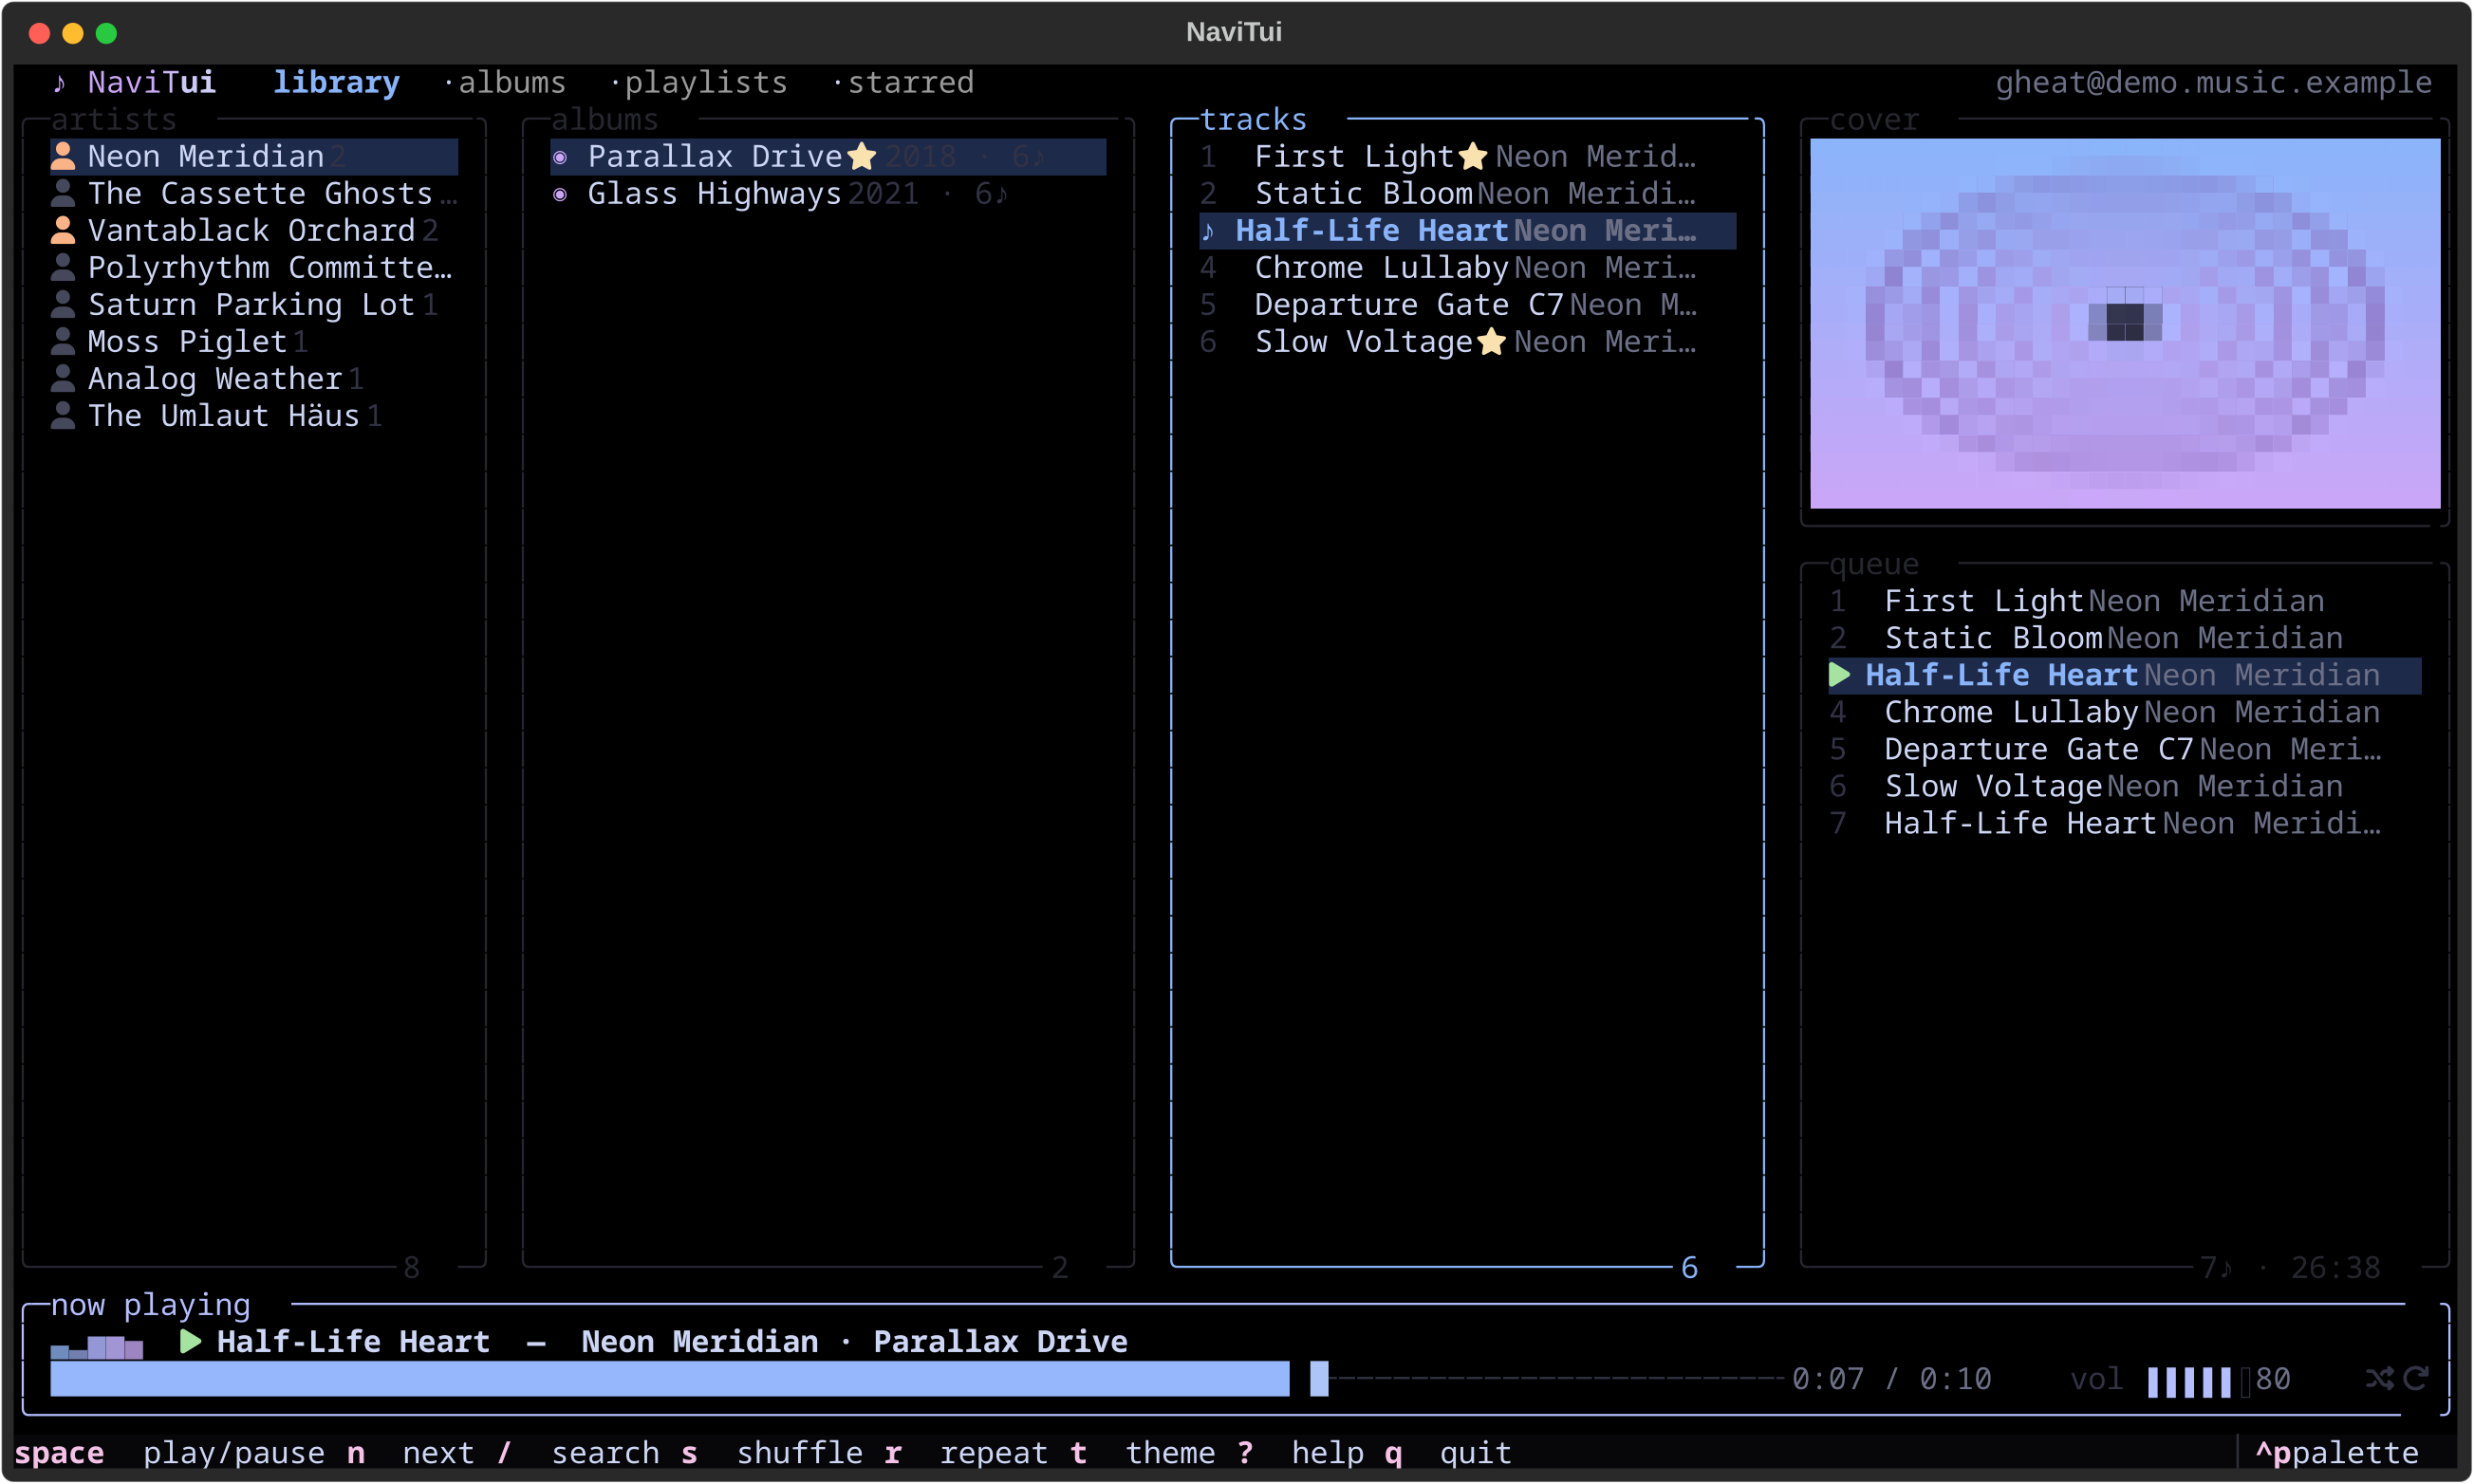
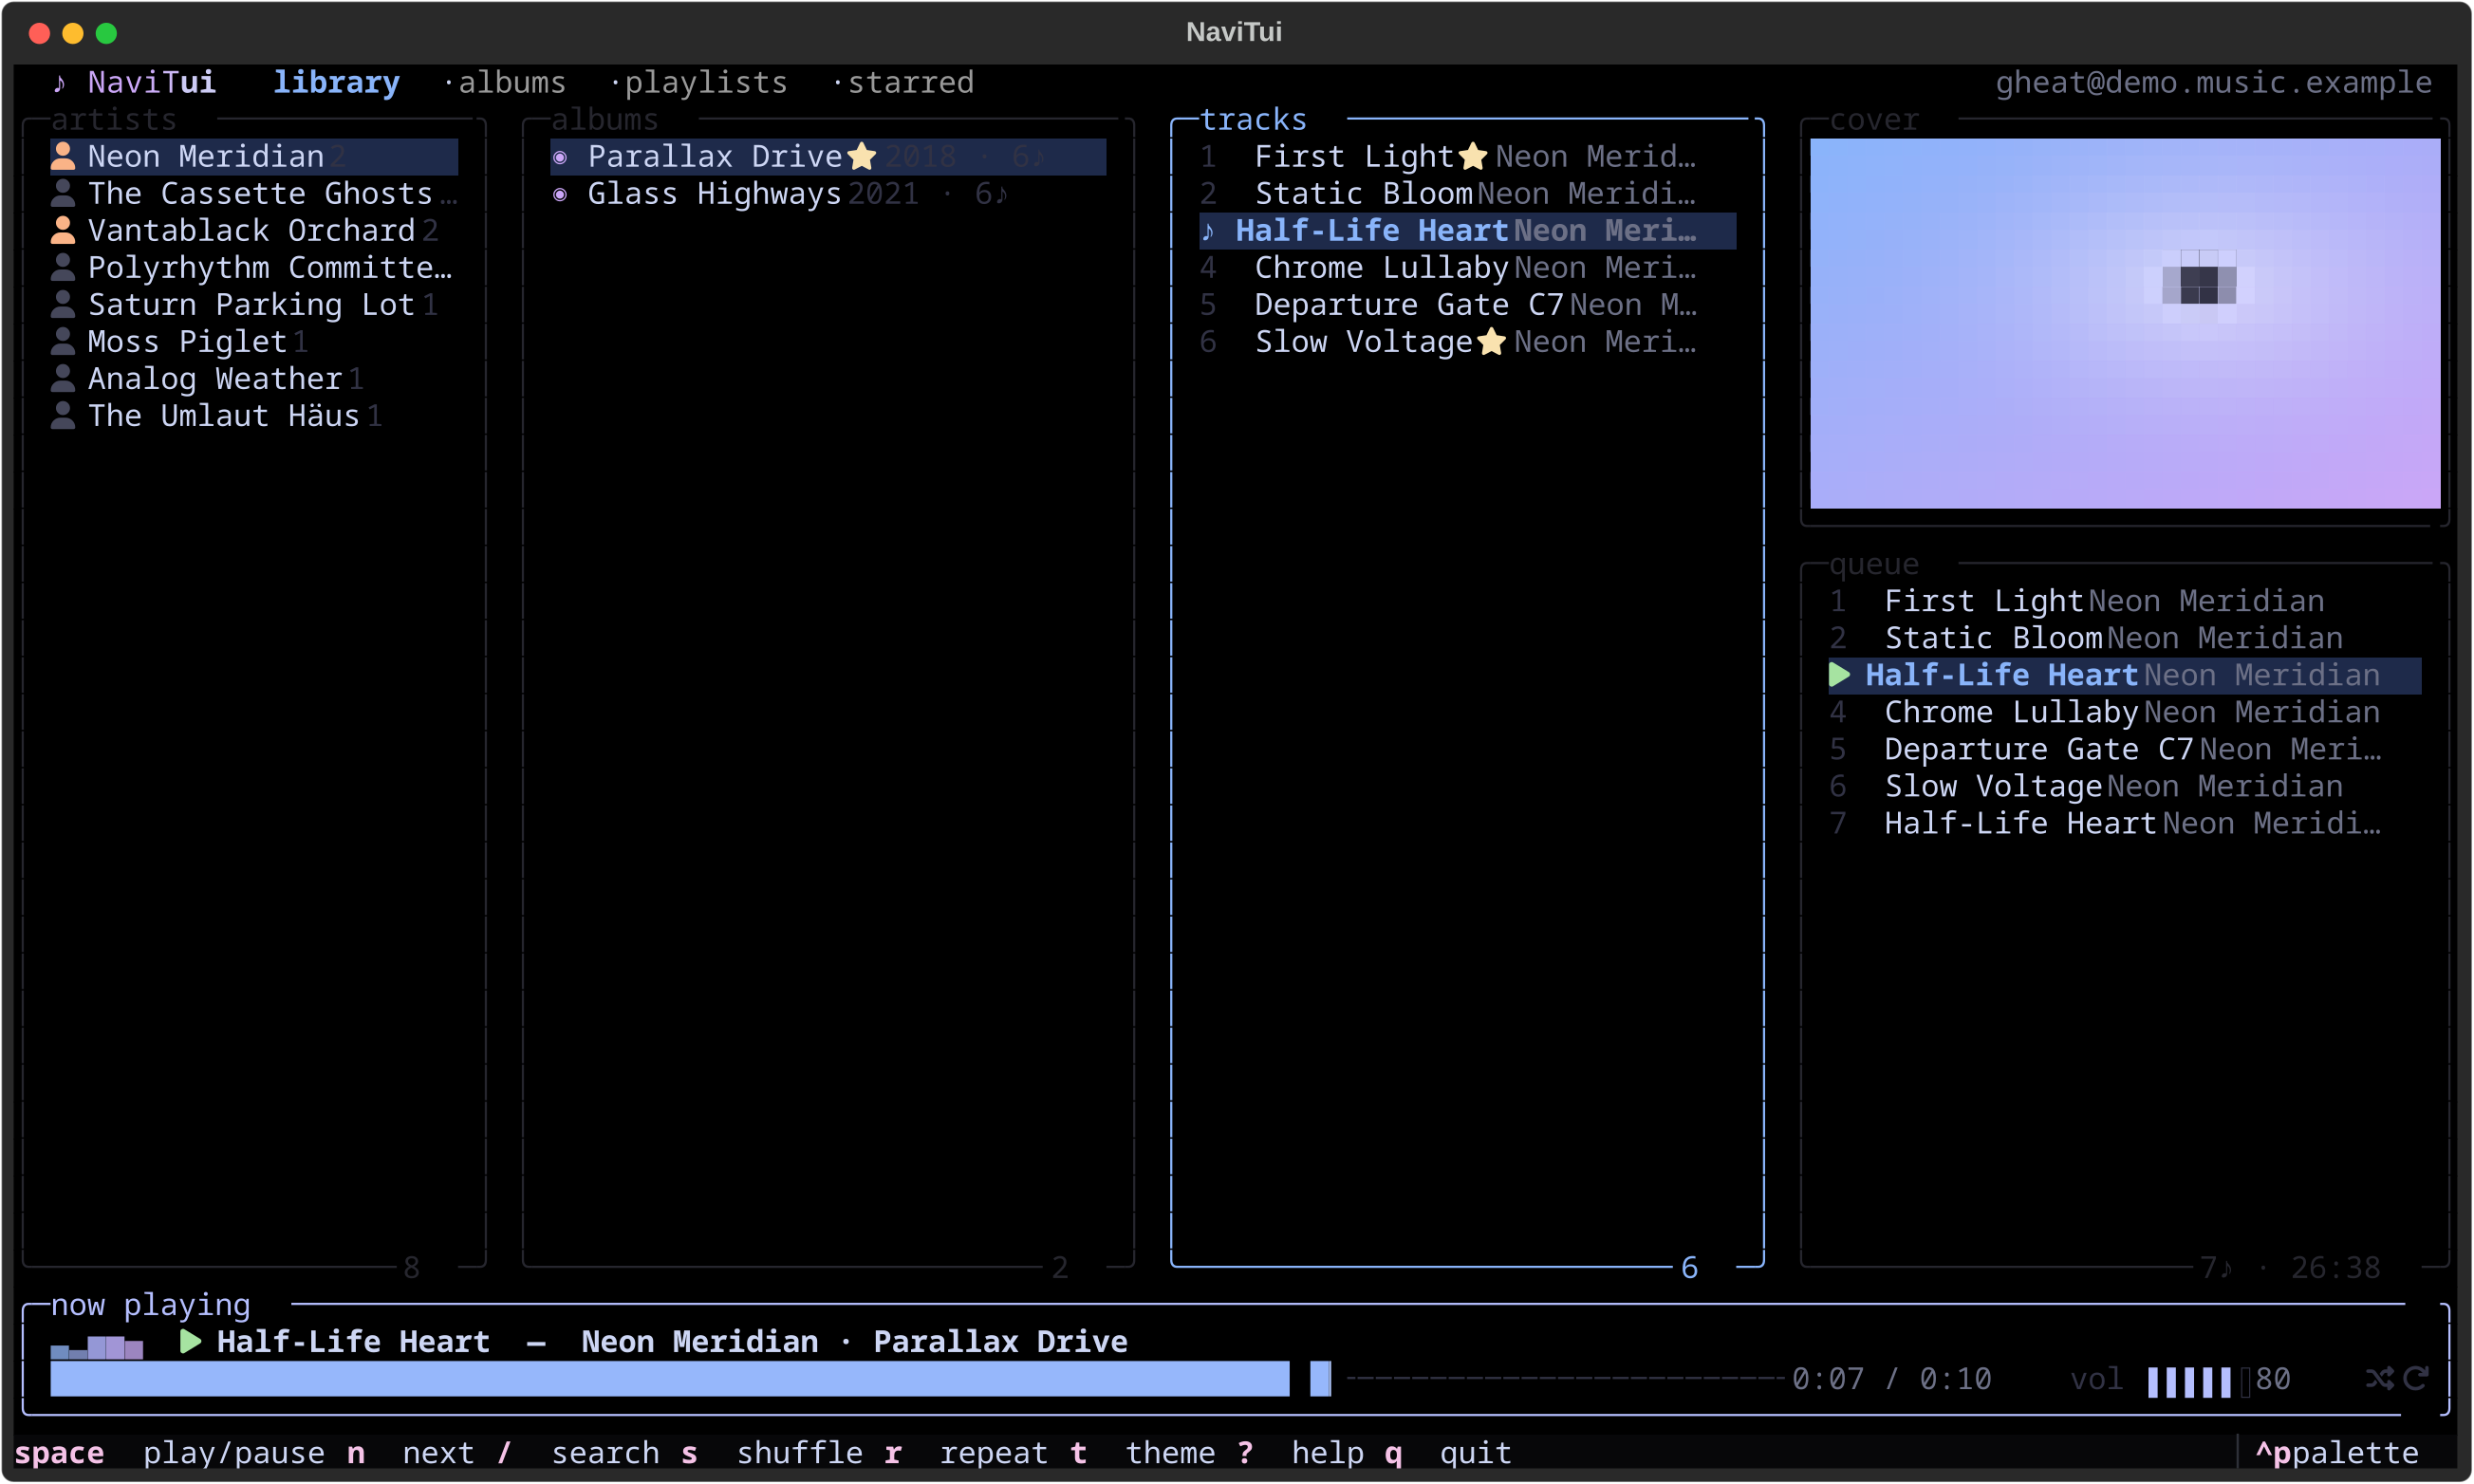
0.2.0: all tracks view, shuffle everything, sharper covers
- albums tab gains 'all tracks' (full library via paged search3) and
  'shuffle everything' (random start, whole library queued shuffled)
- cover art fetched at 1200px for crisp kitty/sixel rendering
- demo covers are smooth gradients — fine rings aliased at half-cell res

Changed region(s): [[0.7146, 0.0921, 0.9942, 0.3683], [0.87, 0.3069, 0.901, 0.3376]]

diff --git a/tools/screenshots.py b/tools/screenshots.py
@@ -63,20 +63,28 @@ PALETTES = [
 
 
 def make_cover(index: int, path: Path) -> None:
-    """A little generative gradient cover so every album looks distinct."""
+    """A generative cover per album: smooth diagonal gradient with one big
+    soft disc. Deliberately low-frequency — fine detail just aliases into
+    noise at half-cell resolution."""
     (c1, c2) = PALETTES[index % len(PALETTES)]
-    size = 400
+    size = 800
     img = Image.new("RGB", (size, size))
+    px = img.load()
+    cx, cy = size * 0.62, size * 0.40
+    max_d = size * 0.55
     for y in range(size):
-        t = y / size
-        row = tuple(round(a + (b - a) * t) for a, b in zip(c1, c2))
-        img.paste(row, (0, y, size, y + 1))
+        for x in range(0, size, 4):  # 4px columns keep this fast
+            t = (x + y) / (2 * size)
+            base = [a + (b - a) * t for a, b in zip(c1, c2)]
+            d = math.hypot(x - cx, y - cy) / max_d
+            glow = max(0.0, 1.0 - d) ** 2 * 0.55
+            col = tuple(round(v + (250 - v) * glow) for v in base)
+            for dx in range(4):
+                if x + dx < size:
+                    px[x + dx, y] = col
     draw = ImageDraw.Draw(img)
-    cx, cy = size // 2, size // 2
-    for r in range(160, 20, -28):
-        shade = tuple(max(0, v - r // 2) for v in (c2 if r % 56 else c1))
-        draw.ellipse((cx - r, cy - r, cx + r, cy + r), outline=shade, width=6)
-    draw.ellipse((cx - 18, cy - 18, cx + 18, cy + 18), fill=(30, 30, 46))
+    r = size * 0.045
+    draw.ellipse((cx - r, cy - r, cx + r, cy + r), fill=(30, 30, 46))
     img.save(path, "PNG")
 
 
@@ -195,14 +203,17 @@ class FakeClient:
     async def set_star(self, item_id, kind, star):
         pass
 
+    async def get_all_songs(self, max_songs=5000):
+        return [s for songs in self.songs.values() for s in songs][:max_songs]
+
     def stream_url(self, song_id):
         return str(self._tone)
 
-    def cached_art(self, cover_id, size=600):
-        return self._art_dir / f"{cover_id}-{size}"
+    def cached_art(self, cover_id, size=1200):
+        return self._art_dir / f"{cover_id}-600"  # one size fits the fake
 
-    async def cover_art(self, cover_id, size=600):
-        return self._art_dir / f"{cover_id}-{size}"
+    async def cover_art(self, cover_id, size=1200):
+        return self._art_dir / f"{cover_id}-600"
 
     async def close(self):
         pass

diff --git a/navitui/app.py b/navitui/app.py
@@ -9,6 +9,7 @@ progress pulse, marquee, spinners); each tick repaints only a few cells.
 from __future__ import annotations
 
 import asyncio
+import random
 
 from rich.text import Text
 from textual import on, work
@@ -38,8 +39,12 @@ ALBUM_VIEWS = [
     ("frequent", "most played"),
     ("random", "random albums"),
     ("alphabeticalByName", "all albums"),
+    ("all-songs", "all tracks"),
     ("random-songs", "surprise me"),
+    ("shuffle-all", "shuffle everything"),
 ]
+
+SONG_VIEWS = {"all-songs", "random-songs", "shuffle-all"}
 
 HELP_SECTIONS = [
     (
@@ -482,6 +487,23 @@ class NaviTuiApp(KitApp):
             self._fill("#pane2-list", [])
             self._fill("#pane3-list", [self._song_row(s) for s in songs], "#pane3-panel")
             return
+        if view in ("all-songs", "shuffle-all"):
+            cached = self.dirs.read_cache("all-songs")
+            if cached:
+                self._songs = [Song.from_dict(s) for s in cached.get("songs", [])]
+                self._fill("#pane2-list", [])
+                self._fill("#pane3-list", [self._song_row(s) for s in self._songs], "#pane3-panel")
+            try:
+                songs = await self.client.get_all_songs()
+            except Exception as e:
+                self._connection_trouble(e)
+                return
+            self.dirs.write_cache("all-songs", {"songs": [s.to_dict() for s in songs]})
+            if self.tab == "albums":
+                self._songs = songs
+                self._fill("#pane2-list", [])
+                self._fill("#pane3-list", [self._song_row(s) for s in songs], "#pane3-panel")
+            return
         key = f"albumlist-{view}"
         cached = None if view == "random" else self.dirs.read_cache(key)
         if cached:
@@ -591,8 +613,23 @@ class NaviTuiApp(KitApp):
                 self._play_songs(self._songs, 0)
         elif self.tab == "starred":
             pass
+        elif self.tab == "albums" and event.option.id == "shuffle-all":
+            self._shuffle_everything()
+        elif self.tab == "albums" and event.option.id in SONG_VIEWS:
+            self.query_one("#pane3-list", NavList).focus()
         else:
             self.query_one("#pane2-list", NavList).focus()
+
+    def _shuffle_everything(self) -> None:
+        if not self._songs:
+            self.notify("still fetching the library — try again in a second", timeout=3)
+            return
+        if not self.queue.shuffle:
+            self.queue.shuffle = True
+            self.query_one("#now", NowPlaying).shuffle = True
+            self.dirs.save_state({"shuffle": True})
+        self._play_songs(self._songs, random.randrange(len(self._songs)))
+        self.notify(f"shuffling all {len(self._songs)} tracks", timeout=3)
 
     @on(OptionList.OptionHighlighted, "#pane2-list")
     def _pane2_highlighted(self, event: OptionList.OptionHighlighted) -> None:

diff --git a/navitui/api.py b/navitui/api.py
@@ -136,6 +136,26 @@ class SubsonicClient:
         body = await self._get("getRandomSongs", size=size)
         return [Song.from_api(s) for s in body.get("randomSongs", {}).get("song", [])]
 
+    async def get_all_songs(self, max_songs: int = 5000) -> list[Song]:
+        """Every song in the library, paged through search3 with the empty
+        query (the Navidrome/OpenSubsonic 'list everything' convention)."""
+        songs: list[Song] = []
+        page = 500
+        while len(songs) < max_songs:
+            body = await self._get(
+                "search3",
+                query='""',
+                artistCount=0,
+                albumCount=0,
+                songCount=page,
+                songOffset=len(songs),
+            )
+            batch = body.get("searchResult3", {}).get("song", [])
+            songs.extend(Song.from_api(s) for s in batch)
+            if len(batch) < page:
+                break
+        return songs[:max_songs]
+
     # ── playback side-channel ─────────────────────────────────────────
     def stream_url(self, song_id: str) -> str:
         params = "&".join(f"{k}={v}" for k, v in self._params(id=song_id).items())
@@ -150,11 +170,13 @@ class SubsonicClient:
         await self._get("star" if star else "unstar", **{key: item_id})
 
     # ── cover art ─────────────────────────────────────────────────────
-    def cached_art(self, cover_id: str, size: int = 600) -> Path | None:
+    # 1200px: big enough that kitty/sixel terminals get a crisp image at
+    # any panel size; halfcell terminals are bounded by cells either way
+    def cached_art(self, cover_id: str, size: int = 1200) -> Path | None:
         path = self._art_dir / f"{cover_id.replace('/', '_')}-{size}"
         return path if path.exists() else None
 
-    async def cover_art(self, cover_id: str, size: int = 600) -> Path:
+    async def cover_art(self, cover_id: str, size: int = 1200) -> Path:
         path = self._art_dir / f"{cover_id.replace('/', '_')}-{size}"
         if path.exists():
             return path

diff --git a/navitui/__init__.py b/navitui/__init__.py
@@ -6,7 +6,7 @@ kitty/sixel graphics protocols with a unicode fallback.
 
 from __future__ import annotations
 
-__version__ = "0.1.0"
+__version__ = "0.2.0"
 
 
 def main() -> None:

diff --git a/README.md b/README.md
@@ -16,8 +16,9 @@ via [ricekit](https://github.com/Gheat1/ricekit) — and everything moves.
 ## what it does
 
 - **the whole library** — artists → albums → tracks, album views (recently
-  added / played / most played / random / all), playlists, starred, and a
-  fuzzy-ish global search over everything (`/`)
+  added / played / most played / random / all), a flat **all tracks** list,
+  **shuffle everything**, playlists, starred, and a global search over
+  everything (`/`)
 - **real cover art** — kitty graphics protocol or sixel where available,
   truecolor half-cells everywhere else (`NAVITUI_ART=auto|tgp|sixel|halfcell|unicode|off`)
 - **a queue that behaves** — add (`a`), play-next (`A`), remove, clear,